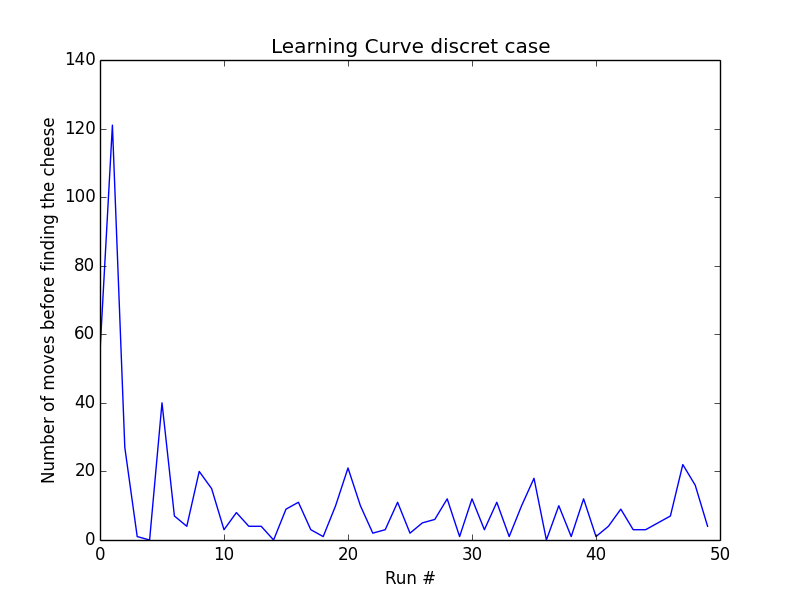
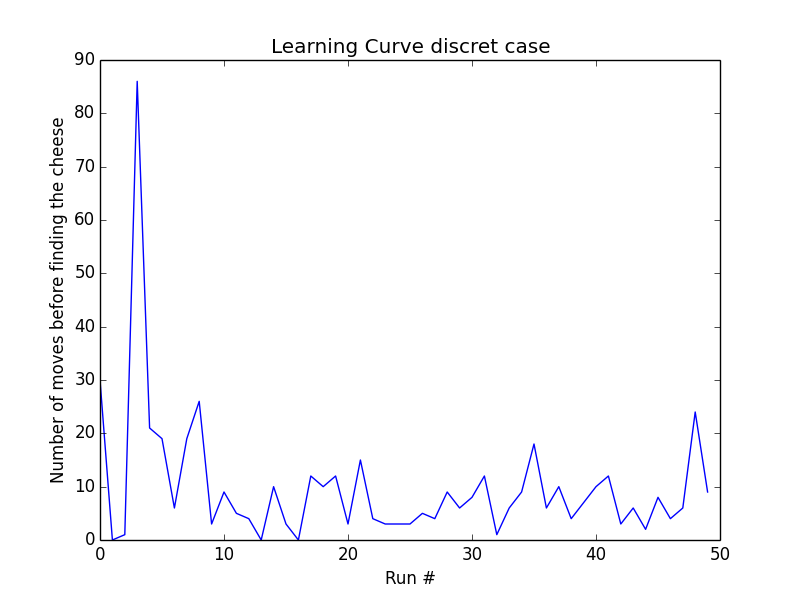
better graph

diff --git a/gridworld_discret.py b/gridworld_discret.py
@@ -69,7 +69,7 @@ class Gridworld:
         for run in range(N_runs):
             self._init_run()
             #call reset() to reset Q-values and latencies, ie forget all he learnt 
-            self.reset()
+            #self.reset()
             latencies = self._learn_run(N_trials=N_trials)
             self.latencies += latencies/N_runs
 
